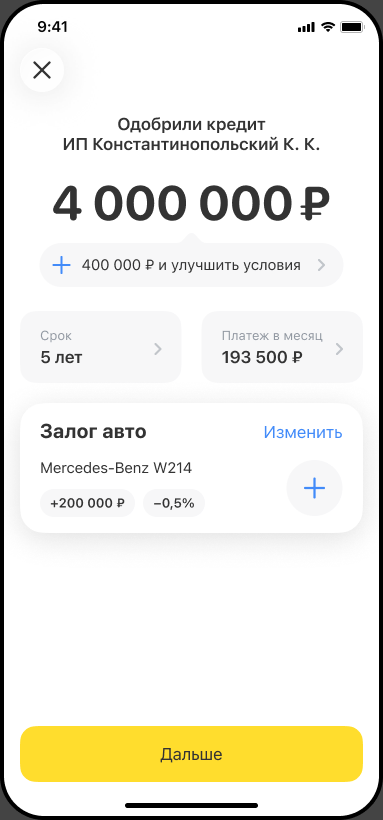
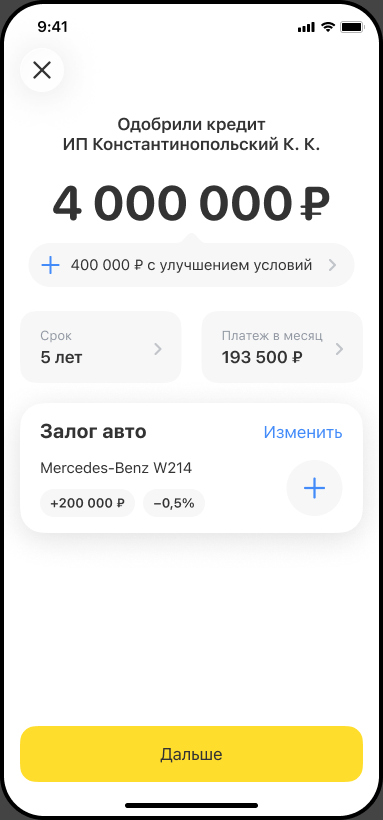
credit-activation v4: бабл «400 000 ₽ с улучшением условий» и карточки пакетов по макету (#42)
* «Единая активация» v4 по секции Figma V5: «Кредит», «Условия» с барабаном, «Тарифы» в КН

- Menu axis «Сценарий» (КН / ОК) is back; КН goes «Кредит» → «Варианты платежа» → review, ОК straight to the review.
- «Кредит»: amount, the «До 4,5 млн ₽ с условиями» hint, «Срок» / «Платеж в месяц», the «Залог авто» card.
- «Условия»: shared-element transition from «Кредит» (the amount moves, both screens cross-fade, «Дальше» stays),
  an iOS picker-like wheel of five conditions under edge gradients, tap anywhere or on «+» to toggle.
- «Тарифы»: horizontal snap slider; the tariff drives the payment on the review.
- Review forks as v2: pledge → documents → «Получить деньги», otherwise «Получить деньги» at once; ОК shows the fee.
- iOS 26 glass app bar buttons; calc tests for v4; e2e smoke for the КН and ОК paths.

Claude-Session: https://claude.ai/code/session_01QvsWtwxhEemGMmG39nqg6f

* credit-activation v4: review fixes — tariff payments, tariff reset, wheel re-measure, unmount

- Tariff cards show their payment at the current amount, the same value as the review.
- Any forward step from «Кредит» drops an earlier tariff; «Платеж в месяц» there ignores it.
- The wheel re-measures when the wheel or the conditions block resize and when the fonts are ready.
- Screens get an unmount hook: the wheel observers and the amount count stop when a page leaves.
- «Тарифы» are not reachable in ОК; «Изменить» is visual only; unused v3 icons removed; stale comments fixed.
[…]

Changed region(s): [[0.1149, 0.3049, 0.8903, 0.3354]]

diff --git a/prototypes/credit-activation/versions/v4/src/screens/tariffs.ts b/prototypes/credit-activation/versions/v4/src/screens/tariffs.ts
@@ -1,7 +1,7 @@
 // #/tariffs — «Варианты платежа» (КН only, after «Дальше» on #/): a horizontal snap slider of tariff cards.
 // «Выбрать» sets the tariff, which drives the payment on #/review (owner, 2026-10-25), and pushes #/review;
-// «Свои условия» → «Настроить» opens #/conditions. Only the first card's bullets are drawn; the others are
-// Lorem ipsum in the frame, so their texts are placeholders (spec, Q5).
+// on «Ваши условия» it opens #/conditions (Figma «Тарифы» 90:5528). Only the first card's bullets are drawn;
+// the others are Lorem ipsum in the frame, so their texts are placeholders (spec, Q5).
 // The card payments follow the current amount (they are drawn at the base 4 000 000 ₽), as on #/review.
 // The prototype says «Пакет» wherever the design said «Тариф» (owner, 2026-10-25); the code keeps `tariff`.
 import { formatPerMonth, monthlyPayment, type Tariff } from '../calc';
@@ -24,7 +24,7 @@ interface TariffCard {
 const CARDS: TariffCard[] = [
   {
     id: 'universal',
-    subtitle: '«Универсальный»',
+    subtitle: 'Пакет «Универсальный»',
     bullets: [
       'Ставка ниже на&nbsp;15% — сэкономите 10&nbsp;541&nbsp;₽',
       'Бесплатное обслуживание счета для бизнеса',
@@ -36,7 +36,7 @@ const CARDS: TariffCard[] = [
   },
   {
     id: 'minimal',
-    subtitle: '«Минимальный»',
+    subtitle: 'Пакет «Минимальный»',
     bullets: [
       'Самый низкий платеж в&nbsp;месяц',
       'Обслуживание счета по&nbsp;пакету',
@@ -47,14 +47,14 @@ const CARDS: TariffCard[] = [
   },
   {
     id: 'custom',
-    title: 'Свои условия',
-    subtitle: 'На ваш выбор',
+    title: 'Ваши условия',
+    subtitle: 'Выбираете сами',
     bullets: [
       'Залог, выписка или проверка данных',
       'Сумма до&nbsp;4,5&nbsp;млн&nbsp;₽',
       'Сниженная комиссия',
     ],
-    button: 'Настроить',
+    button: 'Выбрать',
     route: '#/conditions',
   },
 ];
@@ -66,18 +66,20 @@ const card = (c: TariffCard) => `
     ${c.badge ? `<span class="tariff__badge">${c.badge}</span>` : ''}
     <div class="tariff__header">
       <div class="tariff__titles">
-        <h2 class="t-heading-m" id="tariff-${c.id}">${title(c)}</h2>
-        <p class="t-body-m">${c.subtitle}</p>
+        <h2 class="t-heading-l" id="tariff-${c.id}">${title(c)}</h2>
+        <p class="t-body-l">${c.subtitle}</p>
       </div>
-      <button type="button" class="tooltip-button" aria-label="Подробнее о пакете ${c.subtitle}">
-        <img src="${icon('tooltip-question.svg')}" alt="" width="12" height="12" />
-      </button>
+      <span class="tariff__hint">
+        <button type="button" class="tooltip-button" aria-label="Подробнее: ${c.title ?? c.subtitle}">
+          <img src="${icon('tooltip-question.svg')}" alt="" width="12" height="12" />
+        </button>
+      </span>
     </div>
     <ul class="tariff__bullets">
       ${c.bullets
         .map(
           (text) => `
-        <li class="tariff__bullet">${mask('check-small.svg', 'tariff__check')}<span class="t-body-m">${text}</span></li>`,
+        <li class="tariff__bullet">${mask('check-small.svg', 'tariff__check')}<span class="t-body-l">${text}</span></li>`,
         )
         .join('')}
     </ul>

diff --git a/prototypes/credit-activation/versions/v4/src/style.css b/prototypes/credit-activation/versions/v4/src/style.css
@@ -616,7 +616,7 @@ body.ds-root {
   white-space: nowrap;
 }
 
-/* «+ 400 000 ₽ и улучшить условия ›»: tui-inline-hint, a 12 px tail pointing up at the amount, then the 44 px body. */
+/* «+ 400 000 ₽ с улучшением условий ›»: tui-inline-hint, a 12 px tail pointing up at the amount, then the 44 px body. */
 .hint {
   display: flex;
   justify-content: center;
@@ -960,13 +960,14 @@ body.ds-root {
   padding: var(--ds-space-2) var(--side);
 }
 
-/* Horizontal snap slider: 300 px cards, 16 px apart and inset; 10 px on top for the «Часто выбирают» badge. */
+/* Horizontal snap slider: 300 px cards, 16 px apart and inset, 20 px under the title; 14 px of it on top for the
+   «Часто выбирают» badge. */
 .tariffs {
   display: flex;
   gap: var(--ds-space-4);
   align-items: stretch;
-  margin-top: calc(var(--ds-space-2) + var(--ds-space-1) / 2);
-  padding: calc(var(--ds-space-2) + var(--ds-space-1) / 2) var(--side) var(--ds-space-2);
+  margin-top: calc(var(--ds-space-1) * 1.5);
+  padding: calc(var(--ds-space-3) + var(--ds-space-1) / 2) var(--side) var(--ds-space-2);
   overflow-x: auto;
   scroll-padding: 0 var(--side);
   scroll-snap-type: x mandatory;
@@ -988,9 +989,10 @@ body.ds-root {
 
 .tariff__badge {
   position: absolute;
-  top: calc(var(--ds-space-5) / -2);
+  top: calc((var(--ds-space-5) + var(--ds-space-2)) / -2);
   left: var(--ds-space-5);
-  padding: calc(var(--ds-space-1) * 0.375) calc(var(--ds-space-1) * 1.5) calc(var(--ds-space-1) * 0.625);
+  min-height: calc(var(--ds-space-5) + var(--ds-space-2));
+  padding: calc(var(--ds-space-1) * 1.375) var(--ds-space-3) calc(var(--ds-space-1) * 1.625);
   border-radius: var(--ds-radius-full);
   font-family: var(--ds-typography-ui-s-bold-font-family);
   font-size: var(--ds-typography-ui-s-bold-font-size);
@@ -1006,7 +1008,7 @@ body.ds-root {
   display: flex;
   gap: var(--ds-space-4);
   align-items: flex-start;
-  padding: var(--ds-space-4) var(--ds-space-5) var(--ds-space-3);
+  padding: calc(var(--ds-space-5) + var(--ds-space-2)) var(--ds-space-5) var(--ds-space-3);
 }
 
 .tariff__titles {
@@ -1016,10 +1018,17 @@ body.ds-root {
   gap: var(--ds-space-2);
 }
 
+/* The «?» sits on the middle of the payment line (owner, 2026-10-25): its box is one heading-l line high. */
+.tariff__hint {
+  display: flex;
+  align-items: center;
+  height: var(--ds-typography-heading-mobile-l-line-height);
+}
+
 .tariff__bullets {
   flex: 1;
   margin: 0;
-  padding: 0 var(--ds-space-5) var(--ds-space-5);
+  padding: 0 var(--ds-space-5) var(--ds-space-8);
   list-style: none;
 }
 
@@ -1030,12 +1039,13 @@ body.ds-root {
   padding: calc(var(--ds-space-1) * 1.5) 0;
 }
 
-/* tui-ic-small / check: a 13 × 9 glyph at 1.5 / 3.8 px in its 16 px box, accent-2. */
+/* tui-ic-small / check (13 × 9 glyph, accent-2), its top on the top edge of the bullet's text: the capitals of a
+   Body L line (17 / 20 px) start 3 px below the line box (owner, 2026-10-25). */
 .tariff__check {
   width: 16px;
   height: 16px;
   color: var(--ds-background-accent-2);
-  mask-position: 1.5px 3.8px;
+  mask-position: 1.5px 3px;
   mask-size: 13px 9px;
 }
 

diff --git a/tests/e2e/smoke.spec.ts b/tests/e2e/smoke.spec.ts
@@ -364,7 +364,9 @@ test('credit-activation v4: КН goes through the packages, ОК straight to the
   await expect(top.getByRole('heading', { name: '35\u00a0175\u00a0₽/мес' })).toBeVisible();
   await top.getByRole('button', { name: 'Выбрать' }).first().click();
   await expect(page).toHaveURL(/#\/review$/);
-  await expect(top.getByText('Пакет «Универсальный»')).toBeVisible();
+  // The tariff card says «Пакет «Универсальный»» too, so look on the review screen only.
+  const review = page.locator('[data-route="#/review"]');
+  await expect(review.getByText('Пакет «Универсальный»')).toBeVisible();
   await expect(top.getByText('35\u00a0175,00\u00a0₽')).toBeVisible();
   await expect(top.getByText('Комиссия', { exact: true })).toHaveCount(0);
   await expect(legal).toHaveCount(0);
@@ -375,9 +377,9 @@ test('credit-activation v4: КН goes through the packages, ОК straight to the
   await top.getByRole('button', { name: 'К счету' }).click();
   await expect(page).toHaveURL(/#\/$/);
 
-  // «400 000 ₽ и улучшить условия» → «Условия» (КН: no pledge card, it lives on «Кредит»): a tap on a card toggles
+  // «400 000 ₽ с улучшением условий» → «Условия» (КН: no pledge card, it lives on «Кредит»): a tap on a card toggles
   // it and recalculates the header.
-  await top.getByRole('button', { name: /улучшить условия/ }).click();
+  await top.getByRole('button', { name: /улучшением условий/ }).click();
   await expect(page).toHaveURL(/#\/conditions$/);
   await expect(top.getByRole('checkbox', { name: /залог/ })).toHaveCount(0);
   await top.getByRole('checkbox', { name: /Проверить данные/ }).click();
@@ -395,7 +397,7 @@ test('credit-activation v4: КН goes through the packages, ОК straight to the
   await page.goto('/p/credit-activation/v4/?shell=0&product=ok#/');
   await expect(top.getByText('Комиссия', { exact: true })).toBeVisible();
   await expect(top.getByRole('checkbox', { name: /Залог авто/ })).toHaveCount(0);
-  await top.getByRole('button', { name: /улучшить условия/ }).click();
+  await top.getByRole('button', { name: /улучшением условий/ }).click();
   await expect(top.getByRole('checkbox', { name: /Залог авто/ })).toBeVisible();
   await expect(top.getByText('Изменить')).toBeVisible();
   await top
@@ -421,7 +423,7 @@ test('credit-activation v4: the shared-header transition to the conditions and b
 }) => {
   await page.goto('/p/credit-activation/v4/?shell=0#/');
   const top = page.locator('section:not([inert])');
-  await top.getByRole('button', { name: /улучшить условия/ }).click();
+  await top.getByRole('button', { name: /улучшением условий/ }).click();
   await expect(page).toHaveURL(/#\/conditions$/);
   await expect(page.locator('.viewport')).not.toHaveClass(/is-busy/);
   // After the push the conditions page is opaque again and its faded parts are fully shown.

diff --git a/prototypes/credit-activation/versions/v4/src/calc.ts b/prototypes/credit-activation/versions/v4/src/calc.ts
@@ -17,7 +17,7 @@ const PAYMENT = { amount: AMOUNT.initial, value: 17_713.05 } as const;
 /** «Снизить комиссию» cards: −1 pp (salaries) and «До −0,5%» (turnover). Independent, the cuts add up (v3). */
 export type FeeCut = 'one' | 'half';
 
-/** Tariffs of #/tariffs (КН only); `custom` is «Свои условия» → #/conditions. */
+/** Tariffs of #/tariffs (КН only); `custom` is «Ваши условия» → #/conditions. */
 export type Tariff = 'universal' | 'minimal' | 'custom';
 
 /** Payments drawn on the tariff cards at the base amount (33 500 and 17 500 ₽/мес); they scale with it. */
@@ -57,7 +57,7 @@ export function totalAmount(c: Pick<Choice, 'pledge' | 'check'>): number {
  * Monthly payment in rubles, rounded to kopecks: 17 713,05 ₽ per 4 000 000 ₽ at the base fee 2,5 %, proportional
  * to the total amount and to (1 + fee): a lower fee lowers the payment (owner, 2026-10-25: the payment can go
  * down, its chip then turns positive). A chosen tariff's payment (33 500 / 17 500 ₽ per 4 000 000 ₽) follows the
- * amount only; «Свои условия» keeps the formula.
+ * amount only; «Ваши условия» keeps the formula.
  */
 export function monthlyPayment(c: Pick<Choice, 'pledge' | 'check' | 'feeCuts' | 'tariff'>): number {
   const byAmount = totalAmount(c) / PAYMENT.amount;

diff --git a/prototypes/credit-activation/versions/v4/src/screens/credit.ts b/prototypes/credit-activation/versions/v4/src/screens/credit.ts
@@ -1,4 +1,4 @@
-// #/ — «Кредит»: the approved offer and the hint «400 000 ₽ и улучшить условия» that opens #/conditions with the
+// #/ — «Кредит»: the approved offer and the hint «400 000 ₽ с улучшением условий» that opens #/conditions with the
 // shared-header transition. Two states (frames «Кредит КН» / «Кредит ОК»): КН shows «Срок» and «Платеж в месяц»
 // and the pledge card «Залог авто» (the same flag as on #/conditions, where КН has no pledge card); ОК shows
 // «Срок», «Комиссия» and a wide «Платеж в месяц» and no pledge card (owner, 2026-10-25). «Дальше» goes to
@@ -30,7 +30,7 @@ const hint = () => `
       ${mask('hint-tail.svg', 'hint__tail')}
       <span class="hint__body">
         ${mask('plus.svg', 'hint__plus')}
-        <span class="hint__label t-body-m">400&nbsp;000&nbsp;₽ и&nbsp;улучшить условия</span>
+        <span class="hint__label t-body-m">400&nbsp;000&nbsp;₽ с&nbsp;улучшением условий</span>
         ${mask('chevron-right-service.svg', 'hint__chevron')}
       </span>
     </button>

diff --git a/docs/STATUS.md b/docs/STATUS.md
@@ -3,7 +3,7 @@
 Вся документация ведётся в Google Drive, в папке **Proto/Docs** (ADR-0004). Этот файл — только указатель для новой сессии.
 
 - **Полный STATUS:** Google Doc «STATUS» — https://docs.google.com/document/d/1ZB4tYTN-dJxOKq3Pa-ojL29QglDGBzcl-6g-sDIiH6E/edit (fileId `1ZB4tYTN-dJxOKq3Pa-ojL29QglDGBzcl-6g-sDIiH6E`).
-- **Текущая фаза:** плановые фазы 0–8 завершены; редизайн среды (ADR-0020) и ADR-0021 смержены. «Единая активация» v2 и оси меню просмотрщика (ADR-0022) смержены (PR #22); анимация нажатия карточек — PR #23 смержен. Кнопка вариантов на телефоне (ADR-0023), фиксированный платёж и возврат ползунка — PR #24 смержен. Залог тапом прибавляет +3 млн к ползунку — PR #25 смержен. Платёж от суммы, без пакета КН +15% — PR #26 смержен. В работе: текстовые стили v2 как в Figma, белый фон на телефоне, хаптик ползунка — PR #27 смержен. В работе: хаптик на iOS, панель до низа экрана, отступы карточек — PR #28 смержен. В работе: интервал текста в Safari не удваивается, ползунок после снятия залога — PR #29 смержен. Интервал текста по таблице системного шрифта iOS — PR #30 смержен. «Единая активация» v3 (сценарий «Тяжелые / Легкие») и переключатель версий рядом с осями меню, оси v2 на v3 серые (ADR-0024) — PR #31 смержен. v3 — на «Несколько документов» кнопка «Дальше», «Получить деньги» только на «Легких» — PR #32 смержен. v3 — путь сразу через «Легкие» идёт «Дальше» → «Проверка условий» → «Успех» — PR #33 смержен. v3 — в пути сразу через «Легкие» на «Проверке условий» «Получить деньги» с юридической строкой — PR #34 смержен. v3 — путь через «Тяжелые» через документы и «Легкие» к «Проверке условий», тексты по обновлённому макету — PR #35 смержен. v3 — карточки «Снизим комиссию» выбираются вместе и суммируются — PR #36 смержен. v3 — подпись «До 9 млн ₽ с условиями» на «Условиях» — PR #37 смержен. «Единая активация» v4 по секции Figma V5 (экраны «Кредит», «Условия» с барабаном, «Тарифы» в КН, ось КН / ОК) — PR #38 смержен. v4 по ревью — «Кредит» в двух состояниях (КН / ОК), «Пакет» вместо «Тариф», зелёный платёж при снижении — PR #39 смержен. v4 — хвостик бабла анимируется вместе с ним, сумма без рывка при переходе «Условия» → «Кредит» — PR #40 смержен. В работе: v4 — текст бабла «400 000 ₽ и улучшить условия» и карточка «Залог авто» на «Условиях» в ОК по макету — PR ждёт мержа. Дальше — работа по плейбукам в Proto/Docs/Playbooks.
+- **Текущая фаза:** плановые фазы 0–8 завершены; редизайн среды (ADR-0020) и ADR-0021 смержены. «Единая активация» v2 и оси меню просмотрщика (ADR-0022) смержены (PR #22); анимация нажатия карточек — PR #23 смержен. Кнопка вариантов на телефоне (ADR-0023), фиксированный платёж и возврат ползунка — PR #24 смержен. Залог тапом прибавляет +3 млн к ползунку — PR #25 смержен. Платёж от суммы, без пакета КН +15% — PR #26 смержен. В работе: текстовые стили v2 как в Figma, белый фон на телефоне, хаптик ползунка — PR #27 смержен. В работе: хаптик на iOS, панель до низа экрана, отступы карточек — PR #28 смержен. В работе: интервал текста в Safari не удваивается, ползунок после снятия залога — PR #29 смержен. Интервал текста по таблице системного шрифта iOS — PR #30 смержен. «Единая активация» v3 (сценарий «Тяжелые / Легкие») и переключатель версий рядом с осями меню, оси v2 на v3 серые (ADR-0024) — PR #31 смержен. v3 — на «Несколько документов» кнопка «Дальше», «Получить деньги» только на «Легких» — PR #32 смержен. v3 — путь сразу через «Легкие» идёт «Дальше» → «Проверка условий» → «Успех» — PR #33 смержен. v3 — в пути сразу через «Легкие» на «Проверке условий» «Получить деньги» с юридической строкой — PR #34 смержен. v3 — путь через «Тяжелые» через документы и «Легкие» к «Проверке условий», тексты по обновлённому макету — PR #35 смержен. v3 — карточки «Снизим комиссию» выбираются вместе и суммируются — PR #36 смержен. v3 — подпись «До 9 млн ₽ с условиями» на «Условиях» — PR #37 смержен. «Единая активация» v4 по секции Figma V5 (экраны «Кредит», «Условия» с барабаном, «Тарифы» в КН, ось КН / ОК) — PR #38 смержен. v4 по ревью — «Кредит» в двух состояниях (КН / ОК), «Пакет» вместо «Тариф», зелёный платёж при снижении — PR #39 смержен. v4 — хвостик бабла анимируется вместе с ним, сумма без рывка при переходе «Условия» → «Кредит» — PR #40 смержен. v4 — текст бабла и карточка «Залог авто» на «Условиях» в ОК по макету — PR #41 смержен. В работе: v4 — текст бабла «400 000 ₽ с улучшением условий» и карточки пакетов по макету «Тарифы» («Пакет «…»», Body L, хинт по середине цены) — PR #42 ждёт мержа. Дальше — работа по плейбукам в Proto/Docs/Playbooks.
 - **Обновлено:** 2026-10-25.
 
 ## Как продолжить (для новой сессии)
